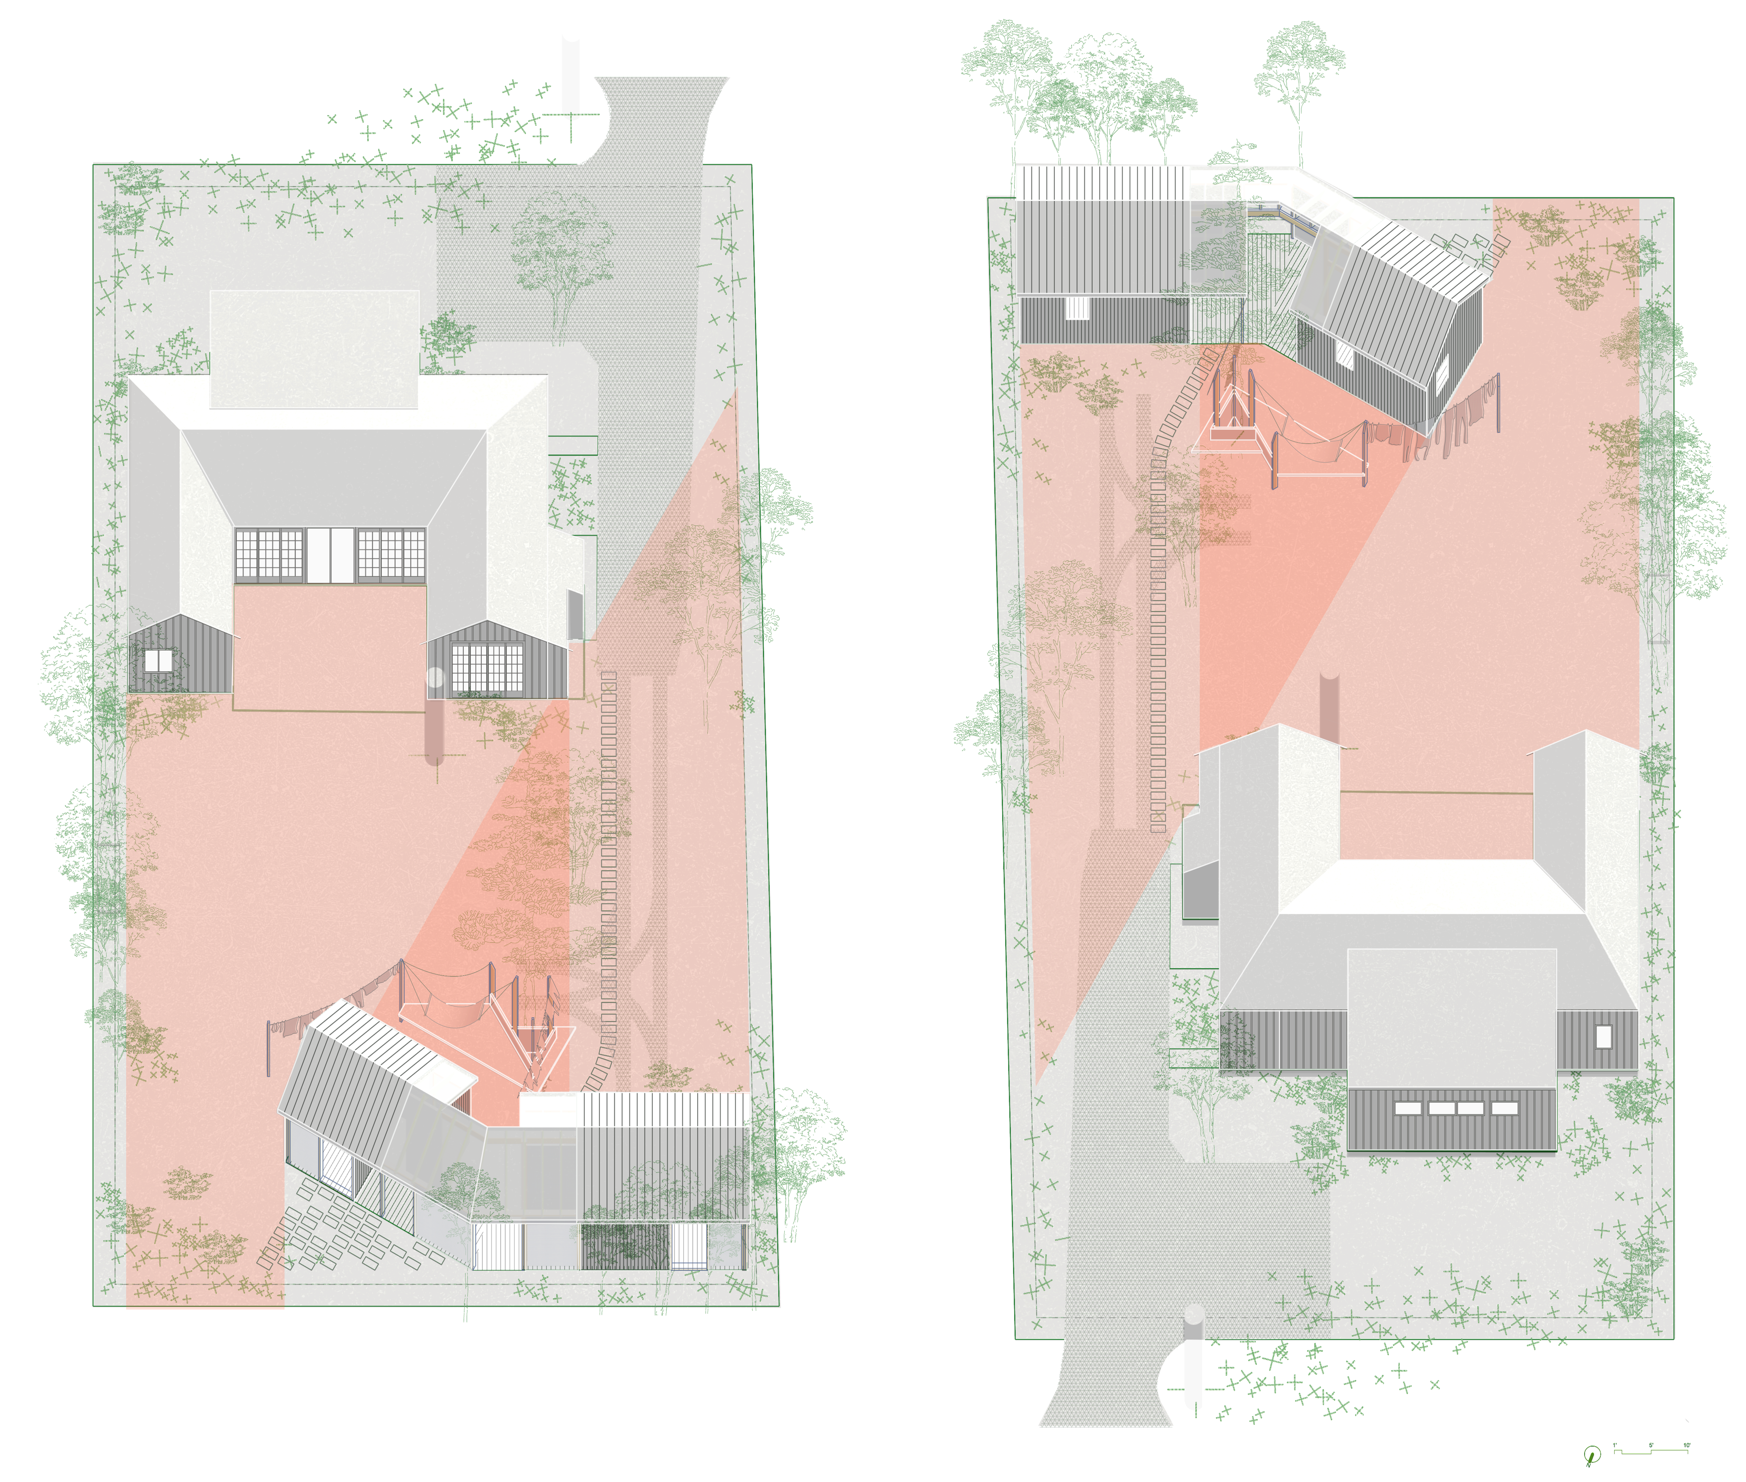
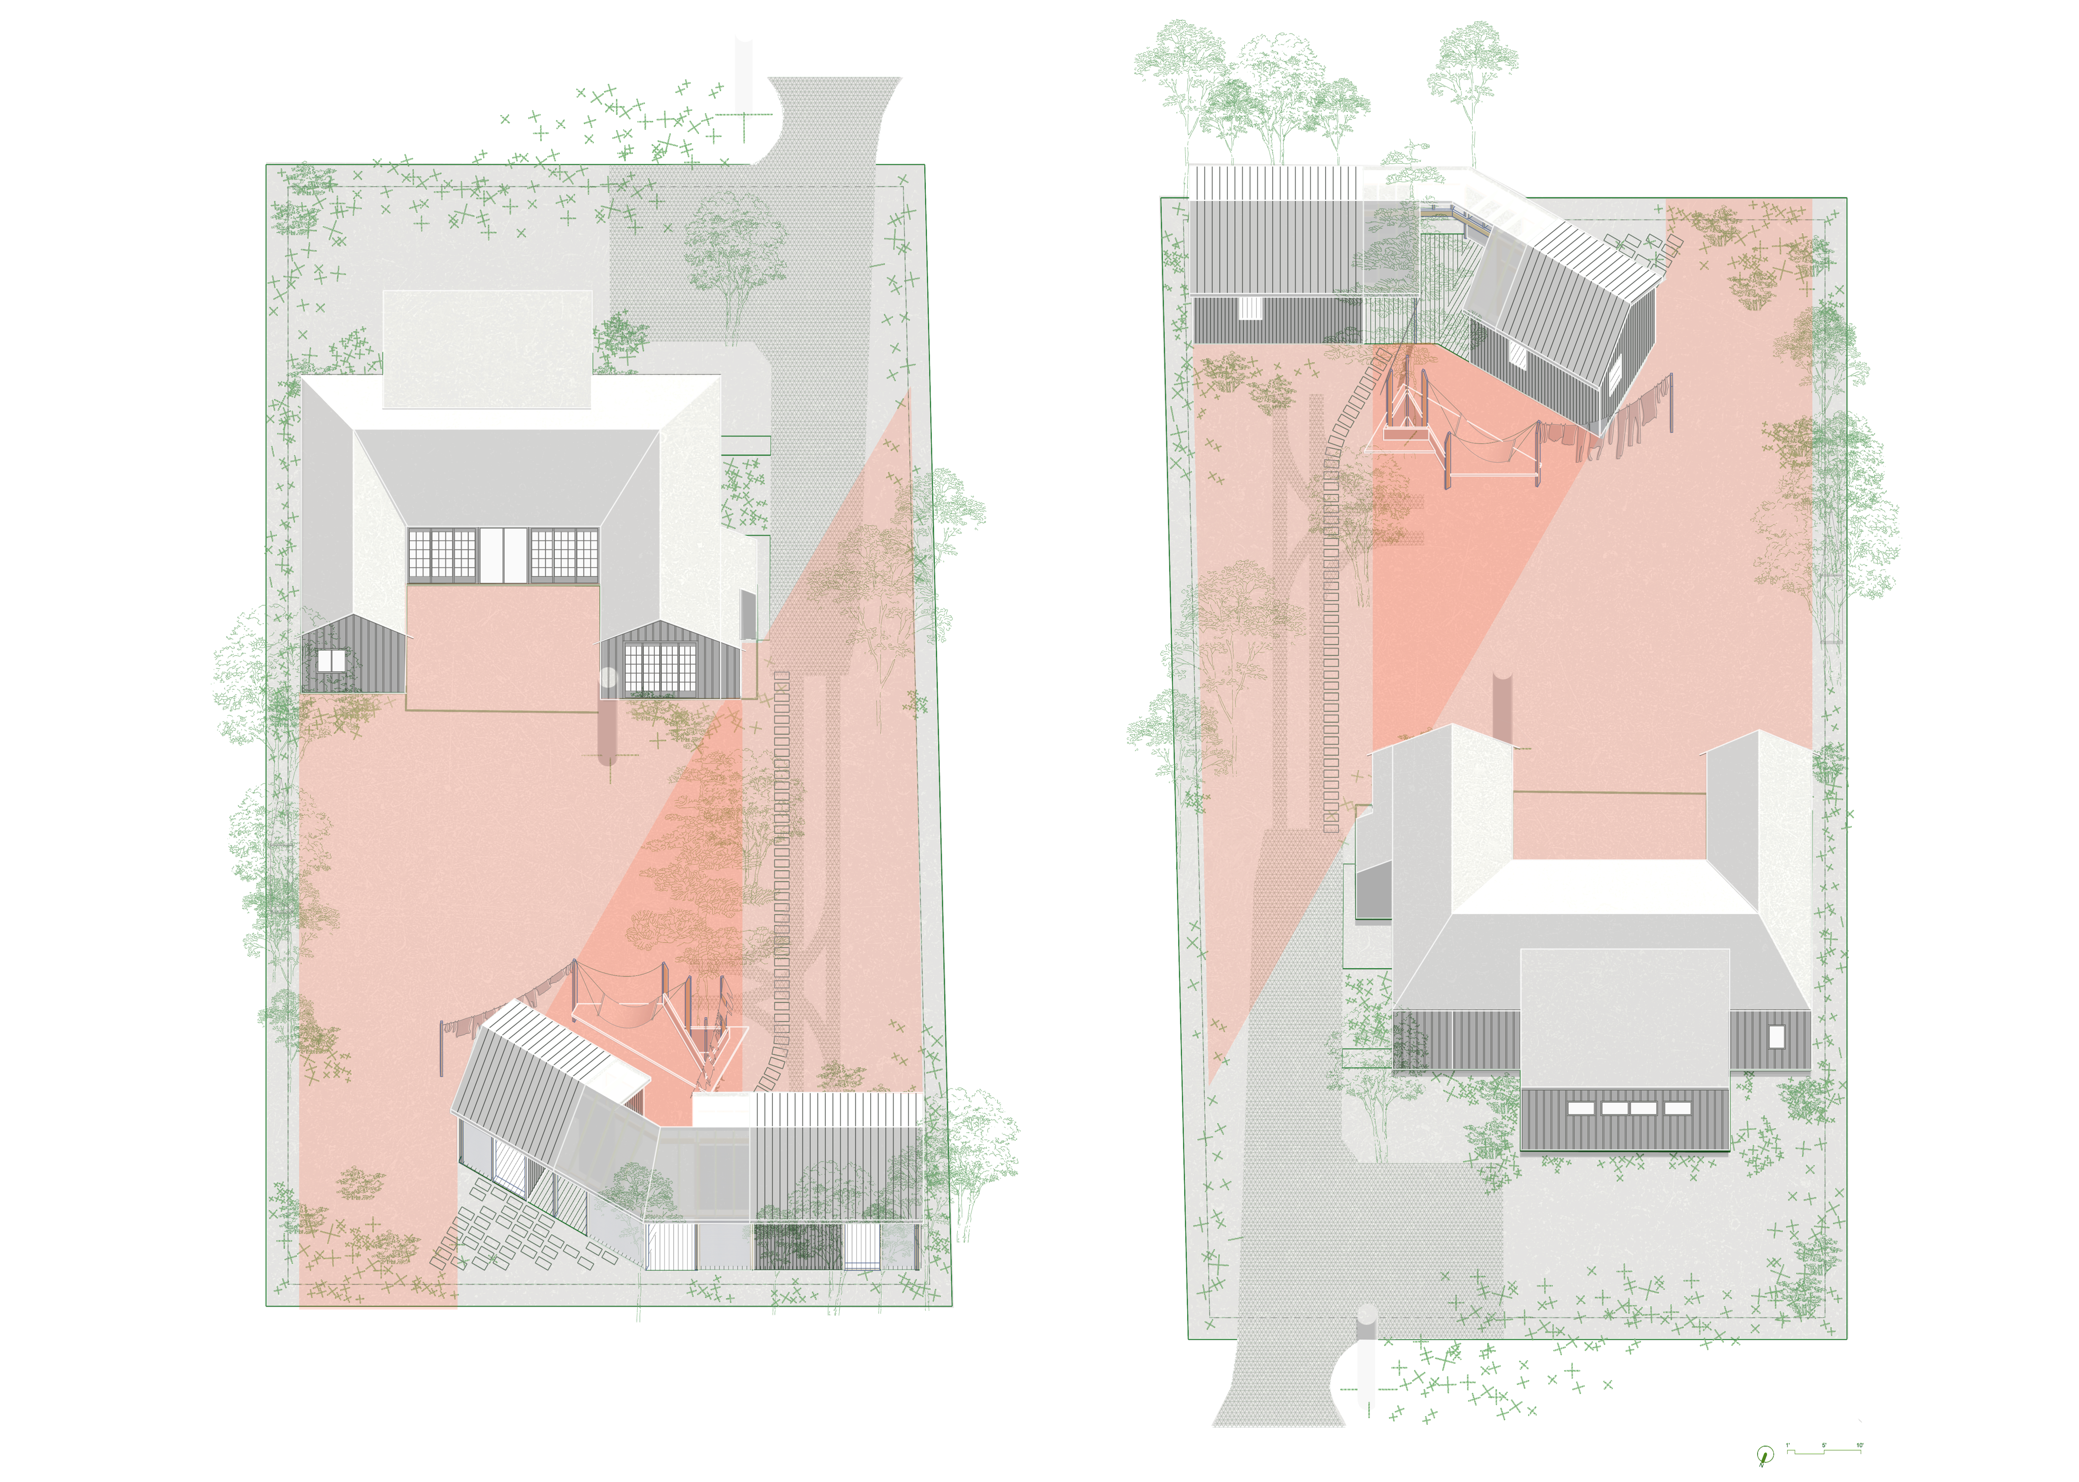
bio edit and image sizes

diff --git a/architecture2.html b/architecture2.html
@@ -49,15 +49,20 @@
                         </a>
                     </div>
 
-                    <div class="img-wrapper fastest">
+                    <div class="img-wrapper vertical">
                         <a target="_blank" rel="noopener" href="https://www.instagram.com/p/DRvAcfnkpHG/?img_index=1">
                             <img src="assets/503sectionmodel.jpg" alt="">
                         </a>
                     </div>
 
 
+                    <div class="img-wrapper faster">
+                        <a target="_blank" rel="noopener">
+                            <img src="assets/blackspacer.png" alt="">
+                        </a>
+                    </div>
 
-                    <div class="img-wrapper faster1">
+                    <div class="img-wrapper slower2">
                         <a target="_blank" rel="noopener">
                             <img src="assets/elevoblique.png" alt="">
                         </a>
@@ -70,7 +75,16 @@
                     </div>
 
 
-                    <div class="img-wrapper slower">
+
+                    <div class="img-wrapper slowest">
+                        <a target="_blank" rel="noopener">
+                            <img src="assets/courtyard.render.png" alt="">
+                        </a>
+                    </div>
+
+
+
+                    <div class="img-wrapper slower2">
                         <a target="_blank" rel="noopener">
                             <img src="assets/wormseye.png" alt="">
                         </a>
@@ -107,17 +121,35 @@
 
 
 
+                    <div class="img-wrapper slowest">
+                        <a target="_blank" rel="noopener">
+                            <img src="assets/north.render.png" alt="">
+                        </a>
+                    </div>
+
+
+
                     <div class="img-wrapper slower">
                         <a target="_blank" rel="noopener">
                             <img src="assets/casa martirani analytical final.jpg" alt="">
                         </a>
                     </div>
 
-                    <div class="img-wrapper fastest">
+
+
+                    <div class="img-wrapper slower2">
                         <a target="_blank" rel="noopener">
-                            <img src="assets/courtyard.render.png" alt="">
+                            <img src="assets/westview.render.png" alt="">
                         </a>
                     </div>
+
+                    <div class="img-wrapper fastest">
+                        <a target="_blank" rel="noopener">
+                            <img src="assets/lobby.render.png" alt="">
+                        </a>
+                    </div>
+
+
 
                 </div>
             </div>
@@ -136,7 +168,6 @@
                 <li><a href="index.html">Home</a></li>
                 <li><a href="architecture2.html" />Architecture</a></li>
                 <li><a href="other.html">Misc.</a></li>
-                <li><a href=https://www.instagram.com/lucia.3dm>Instagram</a></li>
                 <li><a href="contact.html">Contact</a></li>
 
 

diff --git a/index.html b/index.html
@@ -36,13 +36,13 @@
                     <div class="img-wrapper fastest">
                         <p style=" margin-left:20vw;text-align: left; margin-top:10vh; font-size: 3vh;
                             max-width: 60vh; color:white;">
-                            <u><b>Lucia Tian</b></u> is a M.Arch student at Princeton University's School of Architecture whose interests
+                            <u><b>Lucia Tian</b></u> is an architectural designer whose interests
                             lie at the intersection of human behavior, spatial perception, and virtual reality as tools for
-                            designing embodied experiences of space.
+                            designing embodied experiences of space. She received her A.B. from Brown University
+                            in Behavioral Decision Sciences and Architecture and previously worked at AW-ARCH and KSS Architects.
                             <br /> <br />
-                            She received her Bachelor of Arts from Brown University in Behavioral Decision Sciences and
-                            Architecture.
 
+                            Currently, she is a M.Arch I student at Princeton University's School of Architecture.
 
                         </p>
                     </div>
@@ -99,7 +99,7 @@
                         </a>
                     </div>
 
-                    <div class="img-wrapper faster1">
+                    <div class="img-wrapper slower2">
                         <a target="_blank" rel="noopener">
                             <img src="assets/elevoblique.png" alt="">
                         </a>
@@ -162,6 +162,12 @@
                     </div>
 
 
+                    <div class="img-wrapper slower2">
+                        <a target="_blank" rel="noopener">
+                            <img src="assets/westview.render.png" alt="">
+                        </a>
+                    </div>
+
 
                 </div>
             </div>
@@ -180,8 +186,6 @@
                 <li><a href="index.html">Home</a></li>
                 <li><a href="architecture2.html" />Architecture</a></li>
                 <li><a href="other.html">Misc.</a></li>
-                <li><a href=https://www.instagram.com/lucia.3dm>Instagram</a></li>
-
                 <li><a href="contact.html">Contact</a></li>
 
 

diff --git a/other.html b/other.html
@@ -43,7 +43,15 @@
                         </p>
                     </div>
 
+
+
                     <div class="img-wrapper faster">
+                        <a target="_blank" rel="noopener">
+                            <img src="assets/blackspacer.png" alt="">
+                        </a>
+                    </div>
+
+                    <div class="img-wrapper slower2">
                         <a target="_blank" rel="noopener" href="https://www.youtube.com/watch?v=9oD-xkMxHWU">
                             <img class="  " src="assets/immersivewaterfront.png" alt="live redesigned page">
                         </a>
@@ -78,11 +86,6 @@
                         <p style="text-align: center; max-width: 60vw;">Illustrations for post-</p>
                     </div>
 
-                    <div class="img-wrapper faster1">
-                        <a target="_blank" rel="noopener" href="https://www.instagram.com/p/Cnpc4ppuNEQAmjOIGGoC-ZR-KTvv5KbYRgU0440/">
-                            <img src="assets/stool.jpg" alt="">
-                        </a>
-                    </div>
 
 
                     <div class="img-wrapper fastest">
@@ -90,6 +93,15 @@
                             <img class="indeximage" src="assets/megaplaylistmaker.png" alt="">
                         </a>
                     </div>
+
+
+                    <div class="img-wrapper faster1">
+                        <a target="_blank" rel="noopener" href="https://www.instagram.com/p/Cnpc4ppuNEQAmjOIGGoC-ZR-KTvv5KbYRgU0440/">
+                            <img src="assets/stool.jpg" alt="">
+                        </a>
+                    </div>
+
+
 
 
 
@@ -121,8 +133,6 @@
                 <li><a href="index.html">Home</a></li>
                 <li><a href="architecture2.html" />Architecture</a></li>
                 <li><a href="other.html">Misc.</a></li>
-                <li><a href=https://www.instagram.com/lucia.3dm>Instagram</a></li>
-
                 <li><a href="contact.html">Contact</a></li>
 
 

diff --git a/contact.html b/contact.html
@@ -38,7 +38,9 @@
                             <b>Contact</b>
 
                             <br /> <br />
-                            Email: lluciatian@gmail.com
+                            lluciatian@gmail.com
+                            <br />
+                            lt0095@princeton.edu
                             <br />
                             <a href=https://www.linkedin.com/in/lucia--tian />LinkedIn
                             <br />
@@ -80,7 +82,6 @@
                 <li><a href="index.html">Home</a></li>
                 <li><a href="architecture2.html" />Architecture</a></li>
                 <li><a href="other.html">Misc.</a></li>
-                <li><a href=https://www.instagram.com/lucia.3dm>Instagram</a></li>
                 <li><a href="contact.html">Contact</a></li>
 
 

diff --git a/style.css b/style.css
@@ -319,7 +319,7 @@ input[type="checkbox"] {
 }
 
 .slower2 {
-  transform: rotate(90deg) translateZ(-.3px) scale(1.3) translateX(0%) translateY(2vh);
+  transform: rotate(90deg) translateZ(-.3px) scale(1.5) translateX(0%) translateY(2vh);
 }
 
 .slower-down {
